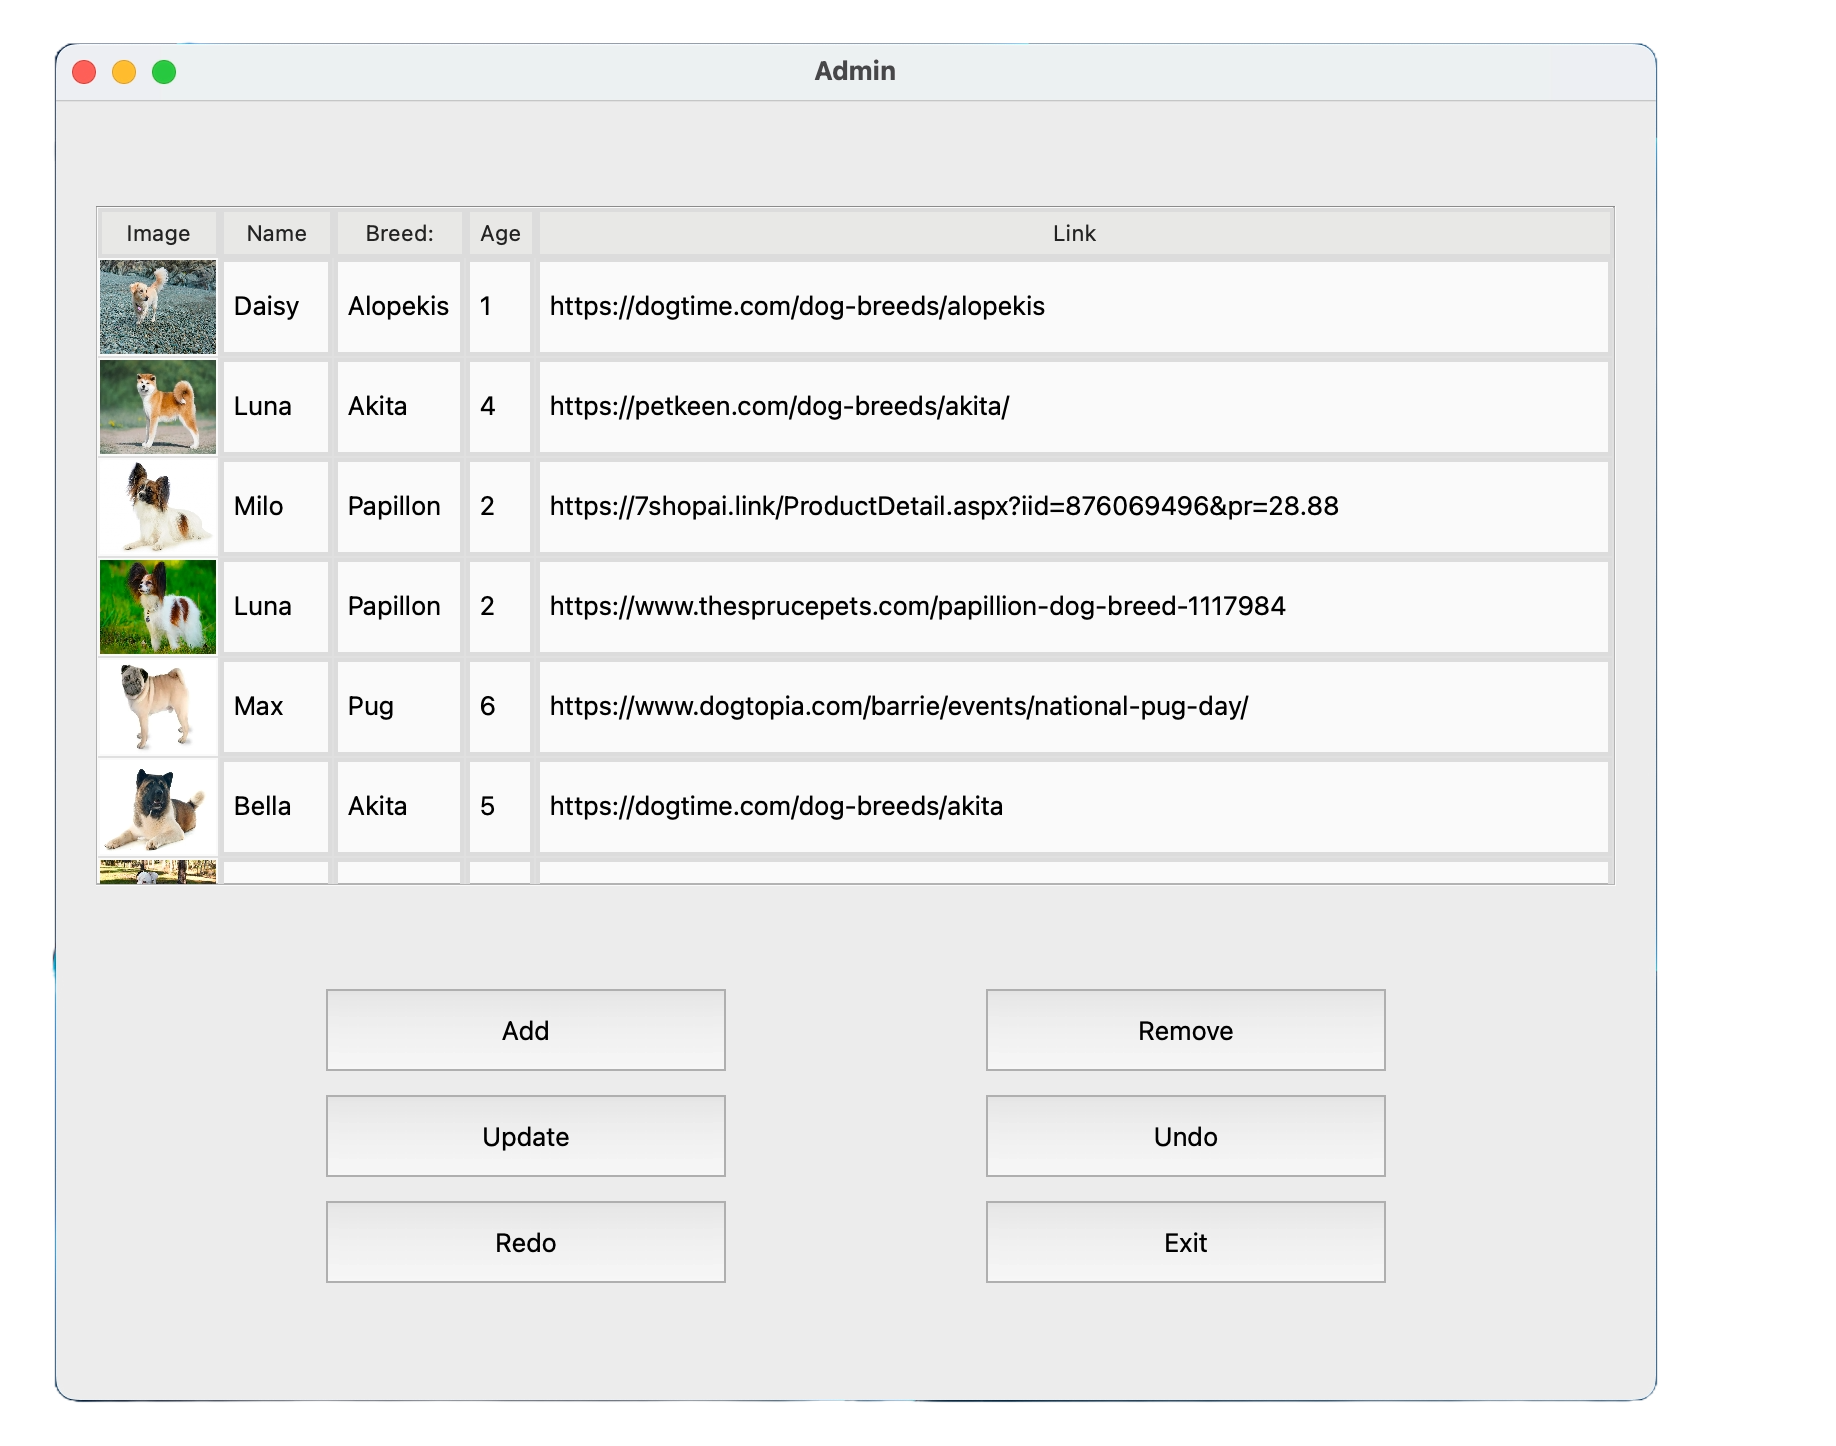
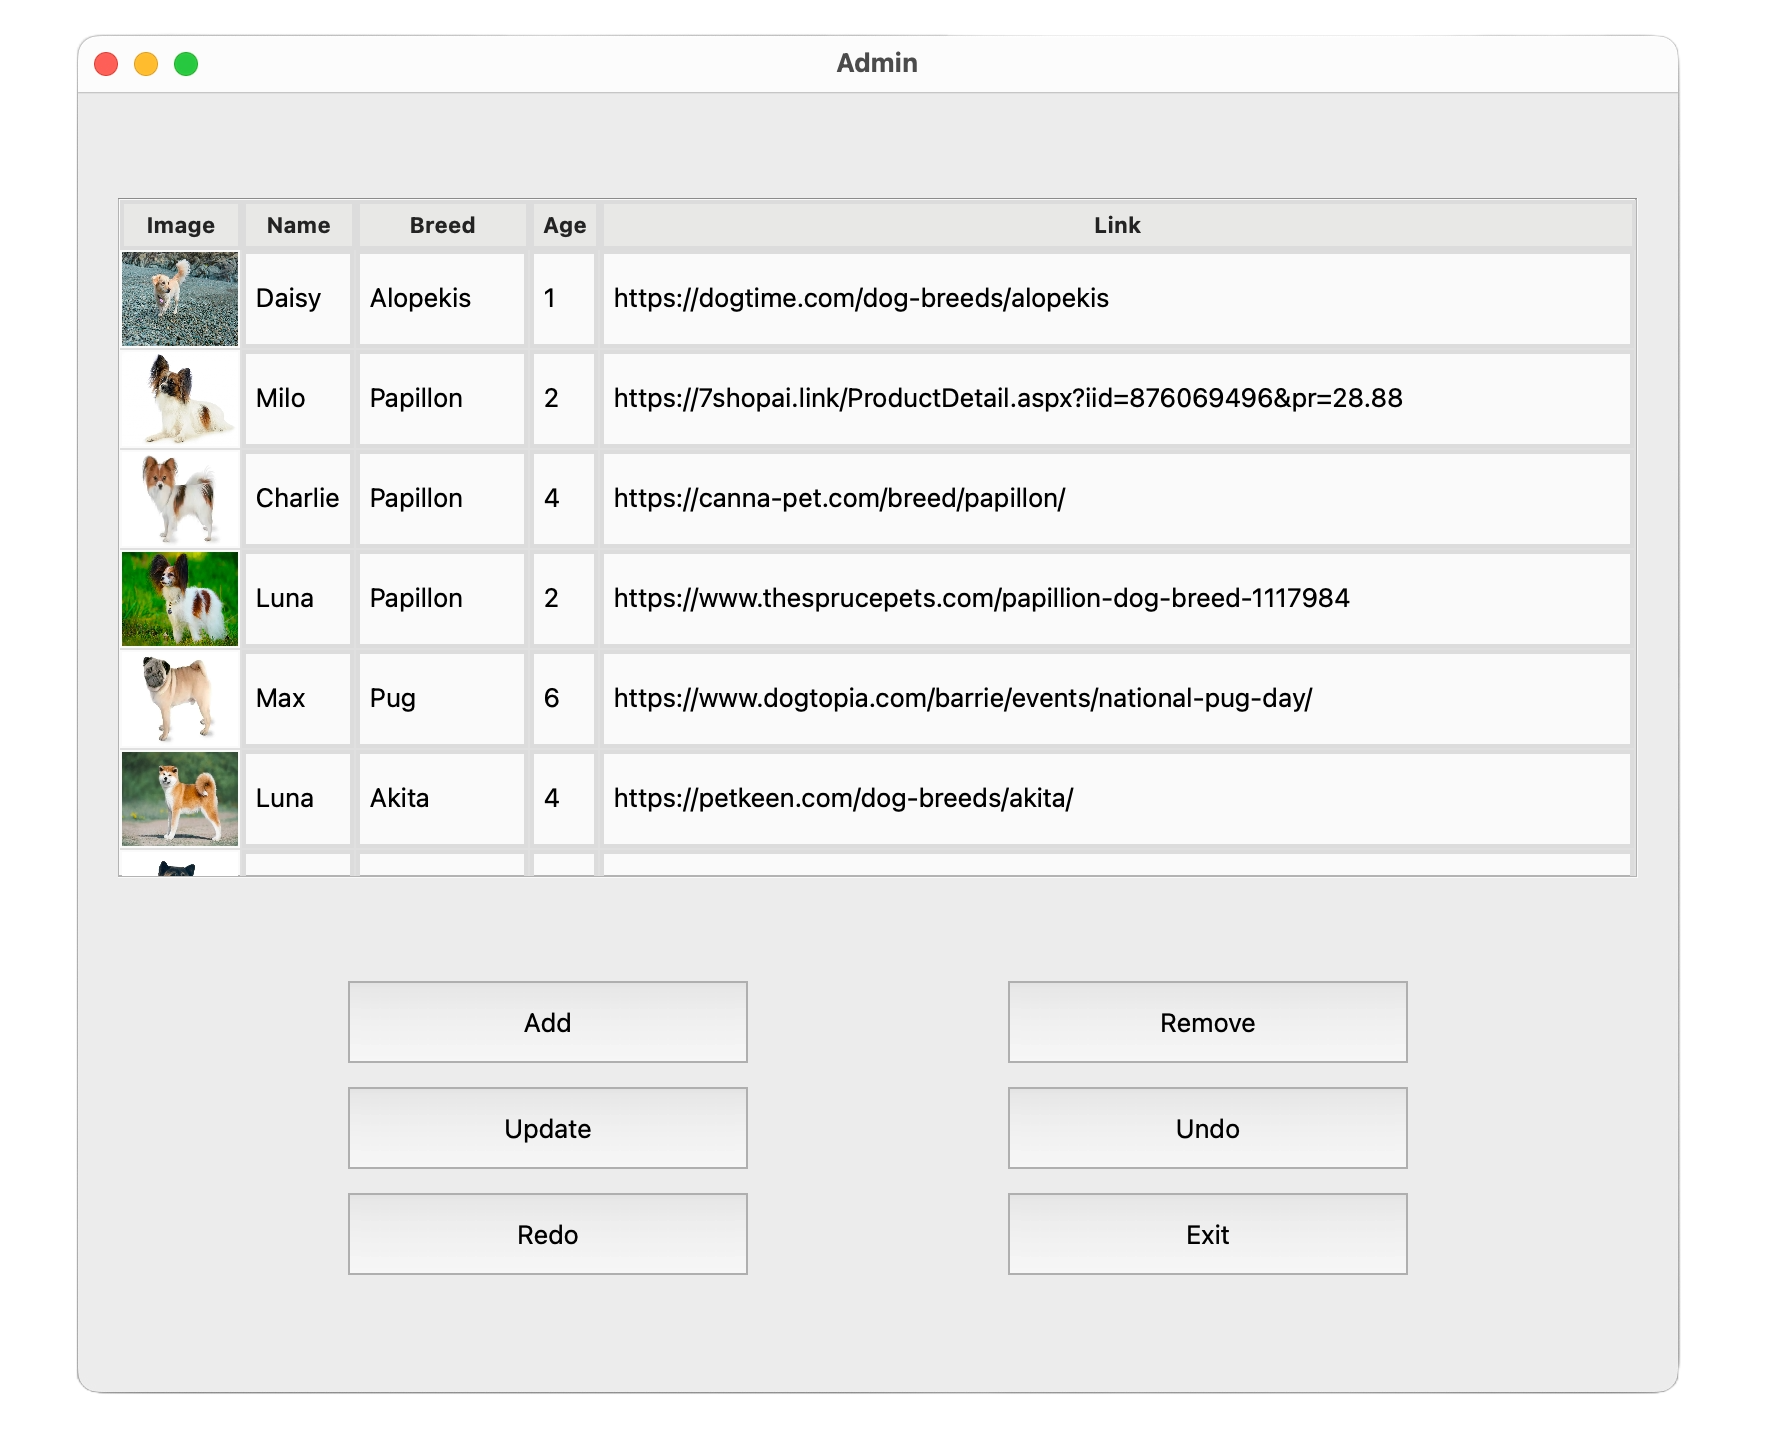
added things

diff --git a/src/files/adoption_list.html b/src/files/adoption_list.html
@@ -10,14 +10,7 @@
            <td>Breed</td>
         <td>Age</td>
         <td>Link</td>
-</td>
-<tr>
-        <td>Charlie</td>
-        <td>Akita</td>
-        <td>4</td>
-        <td><a href='https://www.europuppy.com/dog_breed_choosing/american_akita_puppies/' target='_blank'>https://www.europuppy.com/dog_breed_choosing/american_akita_puppies/</a></td>
-</tr>
-</tr>
+</td></tr>
 </table>
 </body>
 </html>

diff --git a/src/presentation/DogsTableModel.cpp b/src/presentation/DogsTableModel.cpp
@@ -45,7 +45,7 @@ QVariant DogsTableModel::headerData(int section, Qt::Orientation orientation, in
             case 1:
                 return tr("Name");
             case 2:
-                return tr("Breed:");
+                return tr("Breed");
             case 3:
                 return tr("Age");
             case 4:
